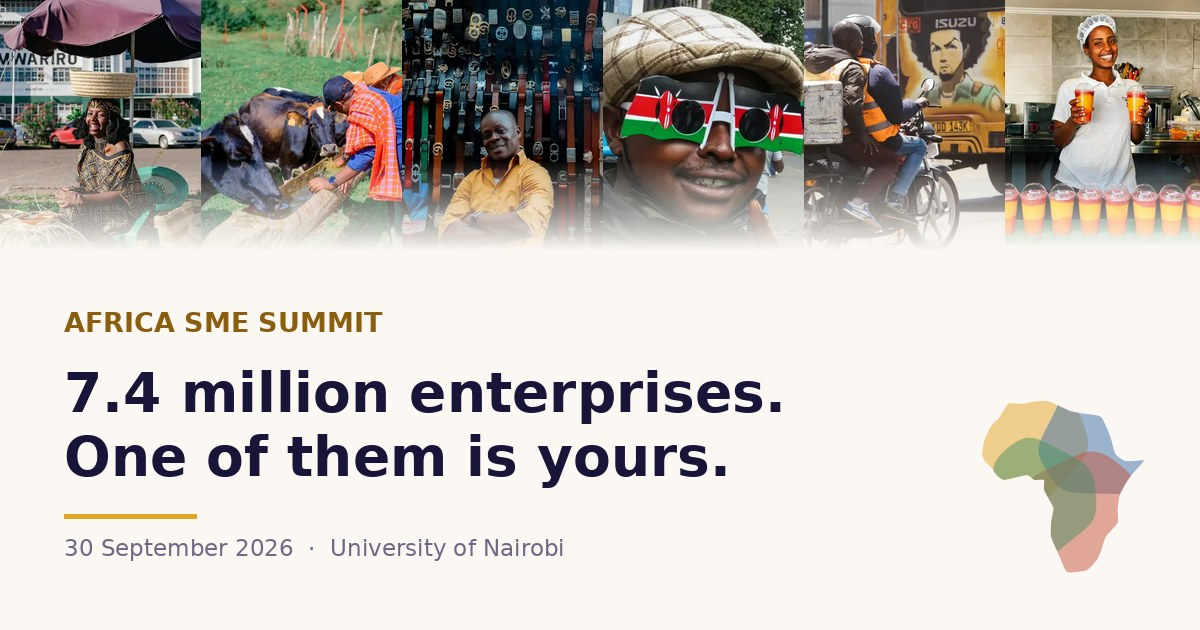
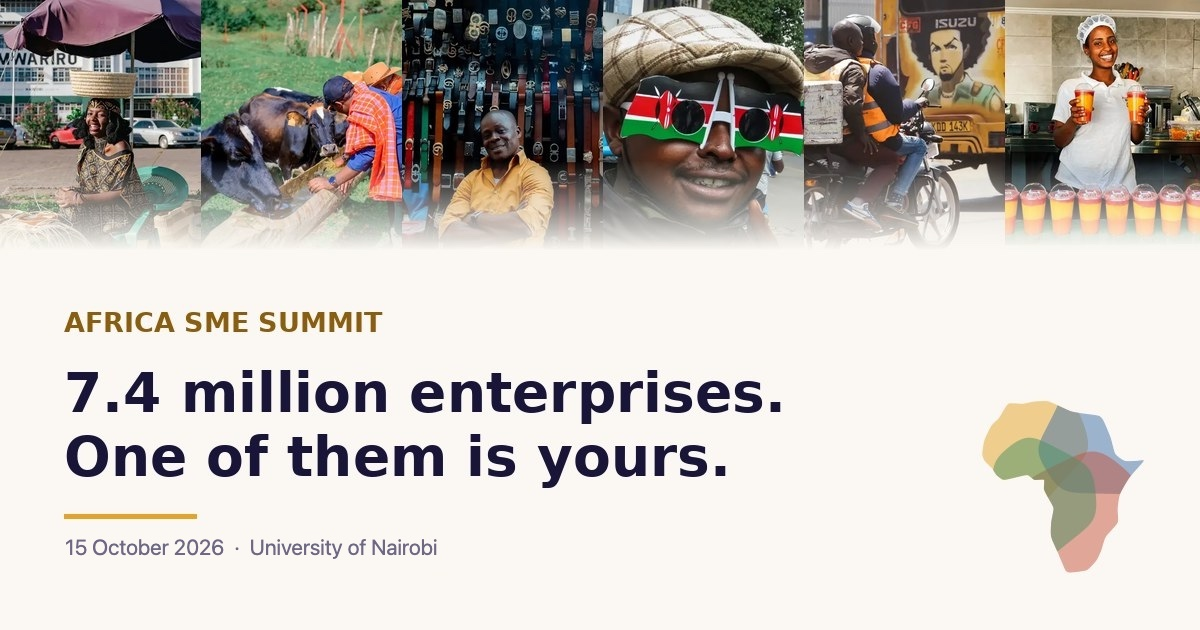
fix: the share card said 30 September for nine days
og.jpg is what WhatsApp, LinkedIn and X show when the link is forwarded, and
it is a picture — so the derived date that fixed every page of the site could
not reach it. It kept the old date from the moment the summit moved, in the
one place a stale date is hardest to notice: nobody visits the share card,
they only send it to other people.

Only the date line is repainted. The photography, the headline, the marigold
rule and the map mark are untouched, and the patch was measured against the
original rather than eyeballed — glyphs on y 539-555 from x 65 in the brand
grey for muted text on paper. The first render came out 19px against the
card's 17 and sat 2px high; the corrected size and baseline are in the script
with a note on how they were arrived at.

scripts/build-og.mjs makes it derived from here on: it reads DATE_ISO and
reformats it, so the next date change rebuilds the card instead of leaving it
behind. Idempotent, because the regions it preserves are never the regions it
writes. The patch is rendered in Chrome so the type is set with the same font
stack the site itself resolves to.

The image URL now carries ?v=<date>. Without it the fix would have been
invisible where it matters: those platforms cache an OG image against its URL
and the filename does not change when the card is rebuilt, so they would have
gone on serving the September picture. Keyed to the event date, so it changes
if and only if what is printed on the card changes.
[…]

Changed region(s): [[0.0617, 0.8444, 0.4625, 0.9048]]

diff --git a/app/layout.tsx b/app/layout.tsx
@@ -4,6 +4,20 @@ import {
 } from "@/lib/event";
 import "./globals.css";
 
+/**
+ * The share card, with a cache key on the end.
+ *
+ * WhatsApp, LinkedIn and Facebook cache an OG image against its URL and hold
+ * it for a long time. og.jpg keeps its filename when the card is rebuilt, so
+ * without this those platforms would go on serving the old picture — the one
+ * with the old date — and the fix would be invisible exactly where it
+ * matters. The key is the event date, so it changes if and only if the thing
+ * printed on the card changes.
+ *
+ * Rebuild the picture itself with `node scripts/build-og.mjs`.
+ */
+const OG_IMAGE = `/og.jpg?v=${EVENT.dateISO}`;
+
 export const metadata: Metadata = {
   metadataBase: new URL("https://africasmesummit.com"),
   title: `${EVENT.name} ${EVENT.year} — ${EVENT.dateShort}, Nairobi`,
@@ -27,13 +41,13 @@ export const metadata: Metadata = {
     siteName: EVENT.name,
     locale: "en_KE",
     type: "website",
-    images: [{ url: "/og.jpg", width: 1200, height: 630, alt: `${EVENT.name} ${EVENT.year}` }],
+  images: [{ url: OG_IMAGE, width: 1200, height: 630, alt: `${EVENT.name} ${EVENT.year}` }],
   },
   twitter: {
     card: "summary_large_image",
     title: `${EVENT.name} ${EVENT.year}`,
     description: EVENT.tagline,
-    images: ["/og.jpg"],
+    images: [OG_IMAGE],
   },
   icons: { icon: "/icon.png", apple: "/apple-icon.png" },
   alternates: { canonical: "https://africasmesummit.com" },
@@ -60,7 +74,7 @@ const eventJsonLd = {
     name: EVENT.host,
     url: "https://ichooselife.global",
   },
-  image: ["https://africasmesummit.com/og.jpg"],
+  image: [`https://africasmesummit.com${OG_IMAGE}`],
   performer: SPEAKERS.map((s) => ({
     "@type": "Person",
     name: s.name.replace(/^(Ms\.|Mr\.|Dr\.|Eng\.)\s+/, ""),
